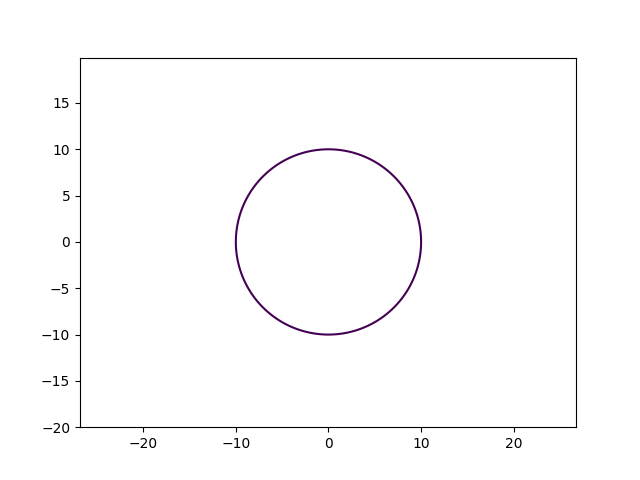
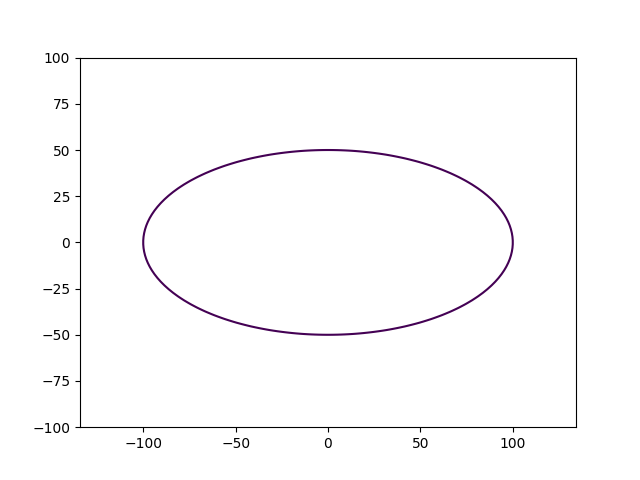
Ксюша лох

diff --git a/task4.py b/task4.py
@@ -1,0 +1,51 @@
+import matplotlib.pyplot as plt
+import numpy as np
+k = 0.1
+phi_max = 8 * np.pi 
+e = 2.71828
+def arhimed():
+
+    p = np.arange(0, phi_max, 0.1)
+    rho = k * p
+    x1 = rho * np.cos(p)
+    y1 = rho * np.sin(p)
+
+    plt.plot(x1, y1)
+    plt.axis('equal')
+
+    plt.savefig('fig_8.png')
+def log(b=0.2):
+    p1 = np.linspace(0, phi_max, 1000)
+    rho = np.exp(b * p1)
+    x = rho * np.cos(p1)
+    y = rho * np.sin(p1)
+
+    plt.plot(x, y)
+    plt.axis('equal')
+    plt.savefig('fig_9.png')
+
+def jezl():
+
+    p = np.arange(0, phi_max, 0.23)
+    rho = k / np.sqrt(p)
+    x = rho * np.cos(p)
+    y = rho * np.sin(p)
+
+    plt.plot(x, y)
+    plt.axis('equal')
+
+    plt.savefig('fig_10.png')
+
+def rose():
+    k = 0.05
+    p = np.arange(0, phi_max, 0.1)
+    rho = np.sin(k * p)
+    x = rho * np.cos(p)
+    y = rho * np.sin(p)
+
+    plt.plot(x, y)
+    plt.axis('equal')
+
+    plt.savefig('fig_11.png')
+if __name__ =='__main__':
+    rose()

diff --git a/task3.py b/task3.py
@@ -1,14 +1,14 @@
 import matplotlib.pyplot as plt
 import numpy as np
+R = 100
+def circle(a=100, b=50):
 
-def circle(x=10):
-
-    x = np.arange(-2*R, 2*R, 0.1)
-    y = np.arange(-2*R, 2*R, 0.1)
+    x = np.linspace(-R, R, 100)
+    y = np.linspace(-R, R, 100)
 
     x, y = np.meshgrid(x, y)
 
-    fxy = x**2 + y**2 - R**2
+    fxy = (x**2 / a**2) + (y**2 / b**2)
 
     plt.contour(x, y, fxy, levels=[1])
     plt.axis('equal')

diff --git a/dop_task1.py b/dop_task1.py
@@ -1,0 +1,16 @@
+import matplotlib.pyplot as plt
+import numpy as np
+
+
+def lisaju(f):
+    t = np.linspace(0, 100, 1000)
+    fig, a = plt.subplots()
+    a.clear()
+    x = np.sin(0.1 * (f + 1) * t)
+    y = np.sin(t)
+    a.plot(x, y)
+    plt.savefig('fig_12.png')
+
+
+if __name__ == '__main__':
+    lisaju(2)
